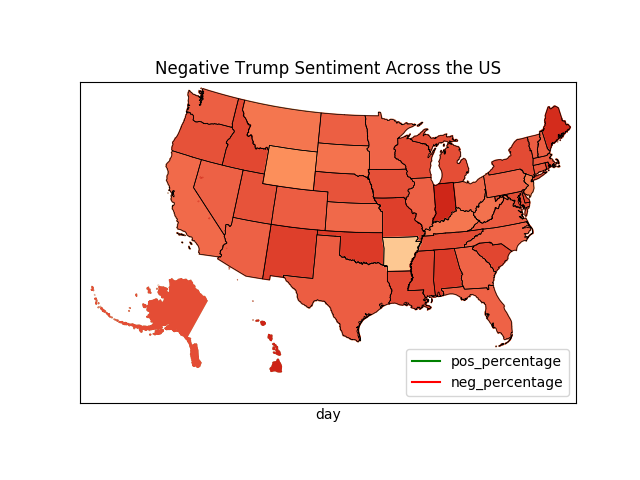
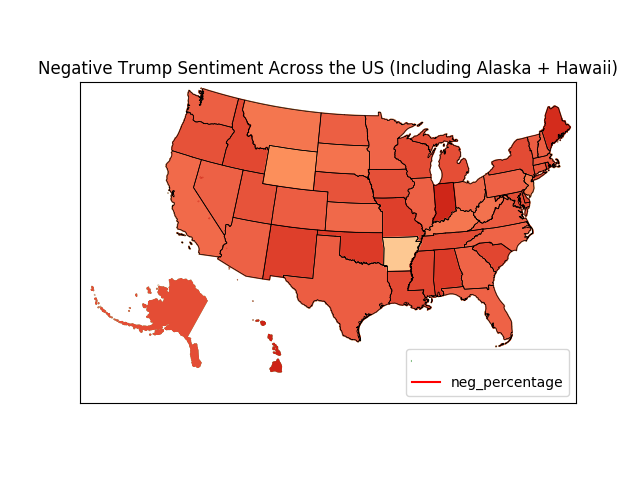
Prettier plots

Changed region(s): [[0.0625, 0.125, 0.9688, 0.1562], [0.6562, 0.7188, 0.875, 0.7812], [0.5, 0.8438, 0.5312, 0.875]]

diff --git a/PLOT/analysis.py b/PLOT/analysis.py
@@ -84,34 +84,37 @@ m = Basemap(llcrnrlon=-125, llcrnrlat=15, urcrnrlon=-64, urcrnrlat=49,
 shp_info = m.readshapefile('/home/cs143/project2/PLOT/st99_d00','states',drawbounds=True)  # No extension specified in path here.
 pos_data = dict(zip(state_data.state, state_data.pos_percentage))
 neg_data = dict(zip(state_data.state, state_data.neg_percentage))
-pos_minus_neg_data = dict(zip(state_data.state, state_data.pos_percentage - state_data.neg_percentage))
+neg_minus_pos_data = dict(zip(state_data.state, state_data.neg_percentage - state_data.pos_percentage))
 
 # choose a color for each state based on sentiment.
 pos_colors = {}
 neg_colors = {}
-pos_minus_neg_colors = {}
+neg_minus_pos_colors = {}
 statenames = []
 pos_cmap = plt.cm.Greens # use 'hot' colormap
 neg_cmap = plt.cm.OrRd # use 'hot' colormap
-pos_minus_neg_cmap = plt.cm.Blues # use 'hot' colormap
+neg_minus_pos_cmap = plt.cm.Blues # use 'hot' colormap
 
-vmin_pos = 0.45; vmax_pos = 0.30 # set range for pos.
-vmin_neg = 0.95; vmax_neg = 0.75 # set range for neg.
-vmin_pos_minus_neg = -0.7; vmax_pos_minus_neg = -0.25 # set range for neg.
+vmin_pos = 0.30; vmax_pos = 0.45 # set range for pos.
+vmin_neg = 0.95; vmax_neg = 0.75 # set range for neg. This range is inversed on purpose.
+vmin_neg_minus_pos = 0.25; vmax_neg_minus_pos = 0.70 # set range for neg.
 for shapedict in m.states_info:
     statename = shapedict['NAME']
     # skip DC and Puerto Rico.
     if statename not in ['District of Columbia', 'Puerto Rico']:
         pos = pos_data[statename]
         neg = neg_data[statename]
-        pos_minus_neg = pos_minus_neg_data[statename]
-        # print("pos_minus_neg == %f" % pos_minus_neg)
+        neg_minus_pos = neg_minus_pos_data[statename]
+        # # Debugging stuff:
+        # print("neg_minus_pos == %f" % neg_minus_pos)
         # print("State: %s" % statename)
         # print("pos calc: %s" % str(pos_cmap(1. - np.sqrt(( pos - vmin_pos )/( vmax_pos - vmin_pos)))))
         # print("neg calc: %s" % str(neg_cmap(1. - np.sqrt(( neg - vmin_neg )/( vmax_neg - vmin_neg)))))
-        pos_colors[statename] = pos_cmap(1. - np.sqrt(( pos - vmin_pos )/( vmax_pos - vmin_pos)))[:3] # 3 for r, g, b?
-        neg_colors[statename] = neg_cmap(1. - np.sqrt(( neg - vmin_neg )/( vmax_neg - vmin_neg)))[:3]
-        pos_minus_neg_colors[statename] = pos_minus_neg_cmap(1. - np.sqrt(( pos_minus_neg - vmin_pos_minus_neg )/( vmax_pos_minus_neg - vmin_pos_minus_neg)))[:3]
+        
+        # Source for cmap calculations for pos and neg_minus_pos: https://piazza.com/class/jtvqvewgbap7od?cid=730
+        pos_colors[statename] = pos_cmap(( pos - vmin_pos )/( vmax_pos - vmin_pos))[:3] # [:3] for r, g, b
+        neg_colors[statename] = neg_cmap(1. - np.sqrt(( neg - vmin_neg )/( vmax_neg - vmin_neg)))[:3] # Didn't change the calc here on purpose
+        neg_minus_pos_colors[statename] = neg_minus_pos_cmap(( neg_minus_pos - vmin_neg_minus_pos )/( vmax_neg_minus_pos - vmin_neg_minus_pos))[:3]
     statenames.append(statename)
 # cycle through state names, color each one.
 
@@ -132,7 +135,7 @@ for nshape, seg in enumerate(m.states):
         color = rgb2hex(pos_colors[statenames[nshape]]) 
         poly = Polygon(seg, facecolor=color, edgecolor=color)
         ax.add_patch(poly)
-plt.title('Positive Trump Sentiment Across the US')
+plt.title('Positive Trump Sentiment Across the US (Including Alaska + Hawaii)')
 plt.savefig("positive-map.png")
 
 # NEGATIVE MAP
@@ -152,10 +155,10 @@ for nshape, seg in enumerate(m.states):
         color = rgb2hex(neg_colors[statenames[nshape]]) 
         poly = Polygon(seg, facecolor=color, edgecolor=color)
         ax.add_patch(poly)
-plt.title('Negative Trump Sentiment Across the US')
+plt.title('Negative Trump Sentiment Across the US (Including Alaska + Hawaii)')
 plt.savefig("negative-map.png")
 
-# POS MINUS NEG MAP
+# NEG MINUS POS MAP
 ax = plt.gca() # get current axes instance
 for nshape, seg in enumerate(m.states):
     # skip Puerto Rico and DC
@@ -169,11 +172,11 @@ for nshape, seg in enumerate(m.states):
         # Shrink Alaska's size to 40% before translating
             seg = list(map(lambda args : (0.40*args[0] + 900000, 0.40*args[1]-1350000), seg))
       
-        color = rgb2hex(pos_minus_neg_colors[statenames[nshape]]) 
+        color = rgb2hex(neg_minus_pos_colors[statenames[nshape]]) 
         poly = Polygon(seg, facecolor=color, edgecolor=color)
         ax.add_patch(poly)
-plt.title('%Positive - %Negative Trump Sentiment Across the US')
-plt.savefig("pos-minus-neg-map.png")
+plt.title('%Negative - %Positive Trump Sentiment Across the US (Including Alaska + Hawaii)', fontsize=9)
+plt.savefig("neg-minus-pos-map.png")
 
 
 """
